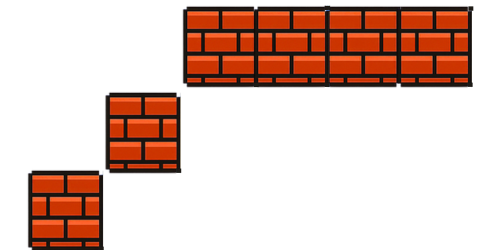
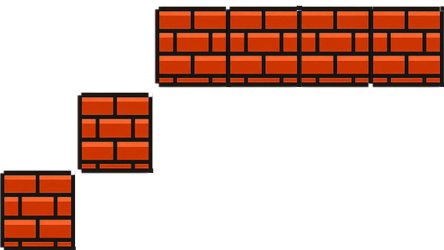
adicionando

diff --git a/Portafolio/index.html b/Portafolio/index.html
@@ -11,8 +11,8 @@
     <link href="https://fonts.googleapis.com/css2?family=Press+Start+2P&family=Silkscreen:wght@400;700&display=swap" rel="stylesheet">
     <title>Document</title>
 </head>
-<body class="w-screen flex flex-col bg-[#5071ff] overflow-x-hidden">
-    <main class="w-screen flex flex-col justify-center items-center">
+<body class="w-screen flex flex-col justify-center items-center bg-[#5071ff] overflow-x-hidden">
+    <main class="w-full flex flex-col justify-center items-center">
         <section class="flex items-center justify-center w-screen pt-[3%]">
             <div class="flex flex-col w-screen items-center justify-center gap-4">
                 <div class="flex justify-center items-baseline gap-[18%] h-[10%] text-[12px]">
@@ -78,9 +78,12 @@
                 </li>
             </ul>
         </nav>
-        <section>
-            <div class="flex border justify-center gap-5 h-38 relative">
-                <div class="pt-20 border">
+
+    </main>
+    <section class="flex flex-col w-full justify-center items-center">
+        <div class="w-full">
+            <div class="flex border justify-center gap-3 h-38 relative">
+                <div class="pt-15 border">
                     <img src="./img/blocks1.png" alt="block 1" class="max-w-11 h-auto">
                 </div>
                 <div class="flex flex-col justify-between border">                   
@@ -112,16 +115,12 @@
                     <img src="./img/bush.png" alt="bush 3" class="h-14">
                 </div>
             </div>
-        </section>
-    </main>
-    <footer class="">
-        <div>
-            <img src="./img/floor.png" alt="floor w-screen">
-            <img src="./img/floor.png" alt="floor w-screen">
-
-            <p></p>
         </div>
-    </footer>
+        <div class="flex flex-col justify-center items-center w-screen">
+            <img src="./img/floor.png" alt="floor">
+            <img src="./img/floor.png" alt="floor">
+        </div>
+    </section>
     <!-- About --> 
 <!--     <section id="About" class="panel"></section> -->
     <!-- Skills --> 

diff --git a/Portafolio/output.css b/Portafolio/output.css
@@ -543,6 +543,9 @@
   .w-auto {
     width: auto;
   }
+  .w-fit {
+    width: fit-content;
+  }
   .w-full {
     width: 100%;
   }
@@ -572,6 +575,12 @@
   }
   .max-w-md {
     max-width: var(--container-md);
+  }
+  .max-w-min {
+    max-width: min-content;
+  }
+  .min-w-min {
+    min-width: min-content;
   }
   .flex-shrink {
     flex-shrink: 1;
@@ -918,8 +927,14 @@
   .pt-8 {
     padding-top: calc(var(--spacing) * 8);
   }
+  .pt-15 {
+    padding-top: calc(var(--spacing) * 15);
+  }
   .pt-20 {
     padding-top: calc(var(--spacing) * 20);
+  }
+  .pt-30 {
+    padding-top: calc(var(--spacing) * 30);
   }
   .pt-\[1\%\] {
     padding-top: 1%;
@@ -947,6 +962,12 @@
   }
   .pb-5 {
     padding-bottom: calc(var(--spacing) * 5);
+  }
+  .pb-20 {
+    padding-bottom: calc(var(--spacing) * 20);
+  }
+  .pb-30 {
+    padding-bottom: calc(var(--spacing) * 30);
   }
   .text-center {
     text-align: center;
